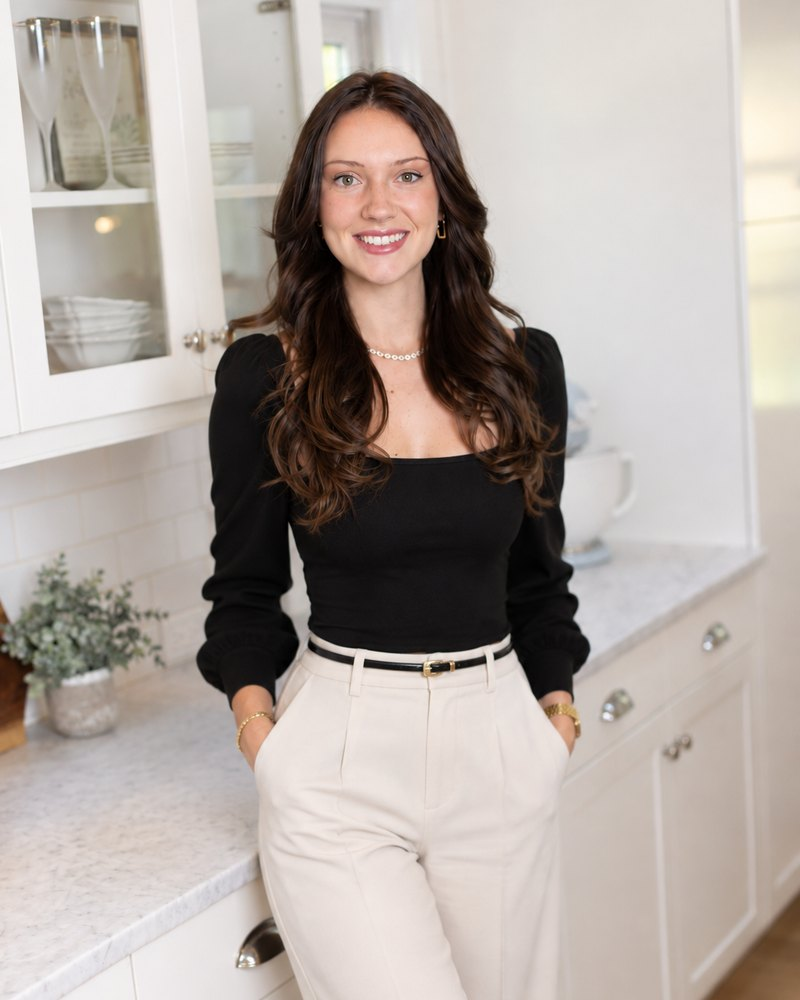
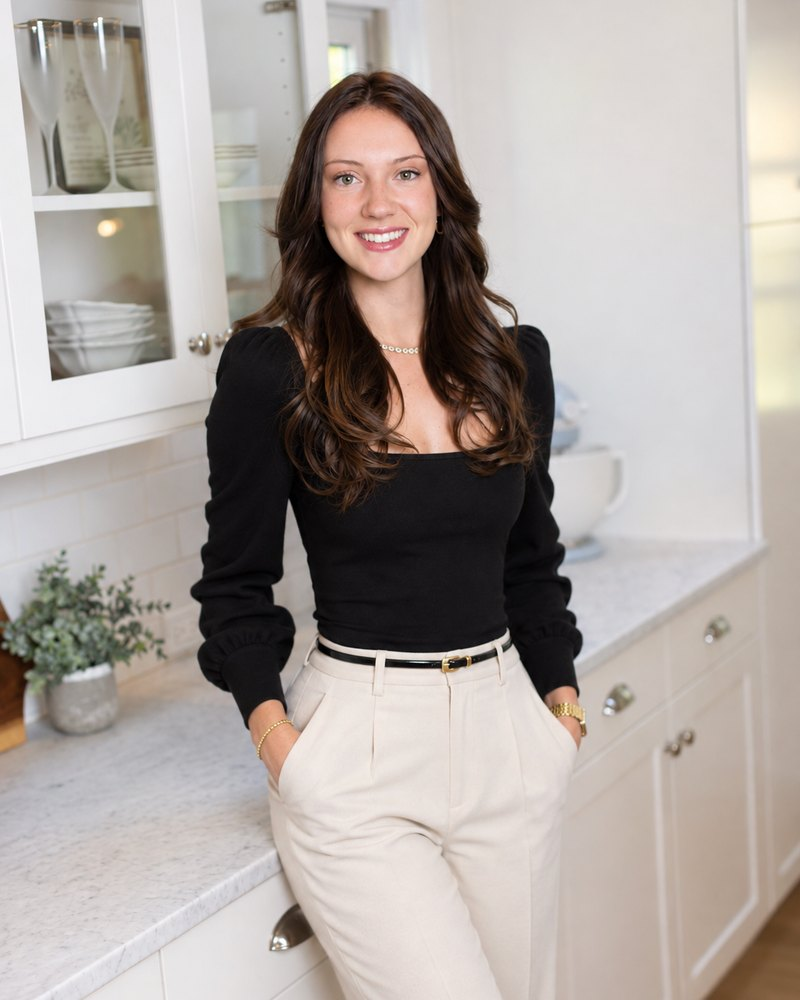
bottom photo clearer

diff --git a/index.html b/index.html
@@ -59,7 +59,7 @@
   <div class="panel reveal" style="--img:url('panel-sell.jpg')"><a class="p-cover" href="sellers.html" tabindex="-1" aria-hidden="true"></a><span class="p-inner"><span class="p-title">Selling <span class="mini">a</span> Home?</span><a class="btn sq light" href="sellers.html">Explore the selling process</a><a class="p-sub" href="home-value.html">What's my home worth? <span aria-hidden="true">→</span></a></span></div>
 </section>
 <section class="lx-links"><div class="lx-wrap"><a class="lx-l" href="about.html"><span class="lx-t">Meet Alexis</span><span class="lx-a">Explore<i aria-hidden="true">→</i></span></a><a class="lx-l" href="sales.html"><span class="lx-t">Recent Sales</span><span class="lx-a">Explore<i aria-hidden="true">→</i></span></a><a class="lx-l" href="reviews.html"><span class="lx-t">Client Reviews</span><span class="lx-a">Explore<i aria-hidden="true">→</i></span></a></div></section>
-<section class="lx-close"><div class="lx-cp"><img src="alexis-closer.jpg" alt="Alexis Cook" width="800" height="1000" loading="lazy"></div><div class="lx-ct reveal"><h2 class="lx-h">I look forward to<br><em>working with you</em></h2><p>Whether you are buying, selling or just starting to explore, I would love to help you reach your real estate goals in the Hudson Valley.</p><div class="btns"><a class="btn sq dark" href="contact.html">Let's connect</a><a class="circ-link call-link" href="sms:+18455467990" aria-label="Text Alexis at 845-546-7990"><span>845-546-7990</span></a></div><div class="rv-q"><span class="st" aria-label="5 out of 5 stars">★★★★★</span><p>“She was always available to answer questions, offer guidance, and give honest advice — never pushy, always supportive.”</p><span>Joe &amp; Jenn A. · Sold and bought with Alexis</span></div></div></section>
+<section class="lx-close"><div class="lx-cp"><img src="alexis-closer.jpg?v=2" alt="Alexis Cook" width="800" height="1000" loading="lazy"></div><div class="lx-ct reveal"><h2 class="lx-h">I look forward to<br><em>working with you</em></h2><p>Whether you are buying, selling or just starting to explore, I would love to help you reach your real estate goals in the Hudson Valley.</p><div class="btns"><a class="btn sq dark" href="contact.html">Let's connect</a><a class="circ-link call-link" href="sms:+18455467990" aria-label="Text Alexis at 845-546-7990"><span>845-546-7990</span></a></div><div class="rv-q"><span class="st" aria-label="5 out of 5 stars">★★★★★</span><p>“She was always available to answer questions, offer guidance, and give honest advice — never pushy, always supportive.”</p><span>Joe &amp; Jenn A. · Sold and bought with Alexis</span></div></div></section>
 </main>
 <footer>
   <div class="wrap">
